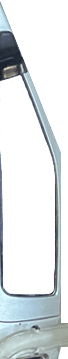
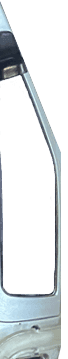
roof laser complete

Changed region(s): [[0.8824, 0.8886, 1.0, 0.9805]]

diff --git a/src/scss/future.scss b/src/scss/future.scss
@@ -489,38 +489,126 @@ div#future {
         left: 50%;
         top: 158px;
         transform: translateX(-50%) translateZ(-28px);
-        div {
-          &:first-child {
-            background: #666666;
-            height: 38px;
-            width: 8px;
-            transform: rotateY(135deg);
+        &:before {
+          background: linear-gradient(0, rgba(68,68,68,0.64) 0%, rgba(17,17,17,0) 100%);
+          content: '';
+          position: absolute;
+          height: 30px;
+          width: 30px;
+          border-bottom: solid 1px black;
+          border-top: solid 1px black;
+        }
+        > div {
+          &:not(#laserSnouts) {
+            &:before {
+              background: linear-gradient(0, rgba(68,68,68,0.64) 0%, rgba(17,17,17,0) 100%);
+              content: '';
+              position: absolute;
+              height: 30px;
+              width: 8px;
+              border-bottom: solid 1px black;
+              border-top: solid 1px black;
+            }
+            &:first-child {
+              background: #666666;
+              height: 38px;
+              width: 8px;
+              transform: rotateY(135deg);
+            }
+            &:nth-child(2) {
+              background: #666666;
+              height: 38px;
+              width: 8px;
+              left: 100%;
+              transform: rotateY(45deg);
+            }
+            &:nth-child(3) {
+              background: #999999;
+              height: 38px;
+              width: 8px;
+              transform: translateZ(-11px) rotateY(225deg);
+            }
+            &:nth-child(4) {
+              background: #999999;
+              height: 38px;
+              width: 8px;
+              left: 100%;
+              transform: translateZ(-11px) rotateY(-45deg);
+            }
+            &:nth-child(5) {
+              height: 38px;
+              width: 30px;
+              background: #cccccc;
+              transform: translateZ(-11px);
+              &:before {
+                width: 30px;
+              }
+            }
+            &:nth-child(6) {
+              background-color: transparent !important;
+              background-image: url(../img/future/roofLaserFace.png);
+              height: 11px;
+              width: 40px;
+              left: 50%;
+              top: 4px;
+              transform: translateX(calc(-50% - 0.5px)) translateZ(-11px) rotateX(90deg);
+              &:before {
+                display: none;
+              }
+            }
+            &:nth-child(7) {
+              background-color: transparent !important;
+              background-image: url(../img/future/roofLaserFace.png);
+              height: 11px;
+              width: 40px;
+              left: 50%;
+              top: 100%;
+              transform: translateX(calc(-50% - 0.5px)) translateZ(-11px) rotateX(90deg);
+              &:before {
+                display: none;
+              }
+            }
           }
-          &:nth-child(2) {
-            background: #666666;
-            height: 38px;
-            width: 8px;
-            left: 100%;
-            transform: rotateY(45deg);
-          }
-          &:nth-child(3) {
-            background: #999999;
-            height: 38px;
-            width: 8px;
-            transform: translateZ(-11px) rotateY(225deg);
-          }
-          &:nth-child(4) {
-            background: #999999;
-            height: 38px;
-            width: 8px;
-            left: 100%;
-            transform: translateZ(-11px) rotateY(-45deg);
-          }
-          &:nth-child(5) {
-            height: 38px;
-            width: 30px;
-            background: #cccccc;
-            transform: translateZ(-11px);
+          &#laserSnouts {
+            width: 20px;
+            height: 32px;
+            left: 50%;
+            top: -10px;
+            transform: translateX(-50%) translateZ(-2px);
+            div.laserSnout {
+              width: 6.5px;
+              height: 100%;
+              div {
+                width: 4.5px;
+                height: 100%;
+                background: #cccccc;
+                left: 50%;
+                &:before {
+                  background: linear-gradient(0, rgba(68,68,68,0.64) 0%, rgba(17,17,17,0) 100%);
+                  content: '';
+                  position: absolute;
+                  height: 7.5px;
+                  width: 4.5px;
+                  border-bottom: solid 1px black;
+                  border-top: solid 1px black;
+                }
+                &:first-child {
+                  transform: rotateY(135deg);
+                }
+                &:nth-child(2) {
+                  transform: rotateY(45deg);
+                }
+                &:nth-child(3) {
+                  transform: translateZ(-6.5px) rotateY(225deg);
+                }
+                &:last-child {
+                  transform: translateZ(-6.5px) rotateY(-45deg);
+                }
+              }
+              &:last-child {
+                left: 15px;
+              }
+            }
           }
         }
       }
@@ -619,6 +707,7 @@ div#future {
           background-size: 100% 100%;
         }
         &#bodyCenterUpperLeftLightBar {
+          left: -2px;
           transform: translateZ(12px);
           > div {
             &:first-child {

diff --git a/src/html/future.html b/src/html/future.html
@@ -133,6 +133,20 @@
         <div></div>
         <div></div>
         <div></div>
+        <div id="laserSnouts">
+          <div class="laserSnout">
+            <div></div>
+            <div></div>
+            <div></div>
+            <div></div>
+          </div>
+          <div class="laserSnout">
+            <div></div>
+            <div></div>
+            <div></div>
+            <div></div>
+          </div>
+        </div>
       </div>
     </div>
     <div id="engineTop"></div>
